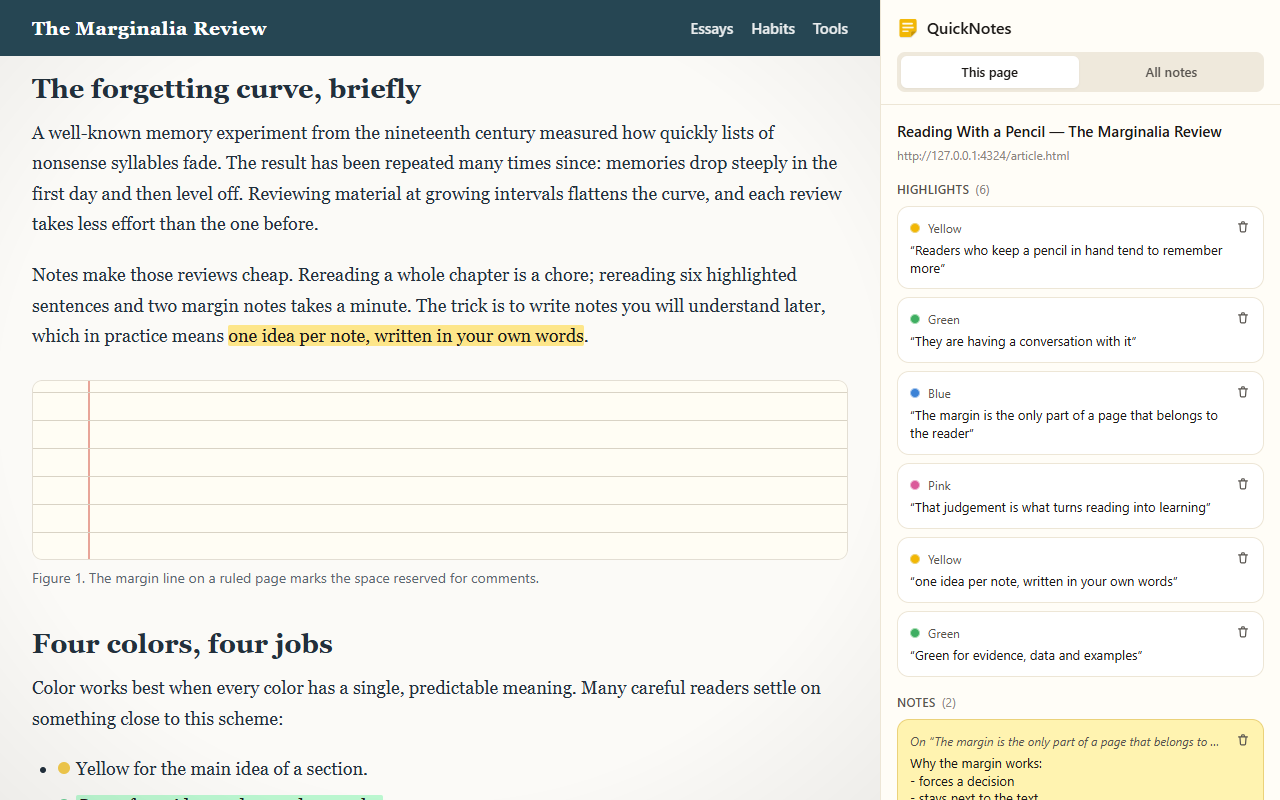
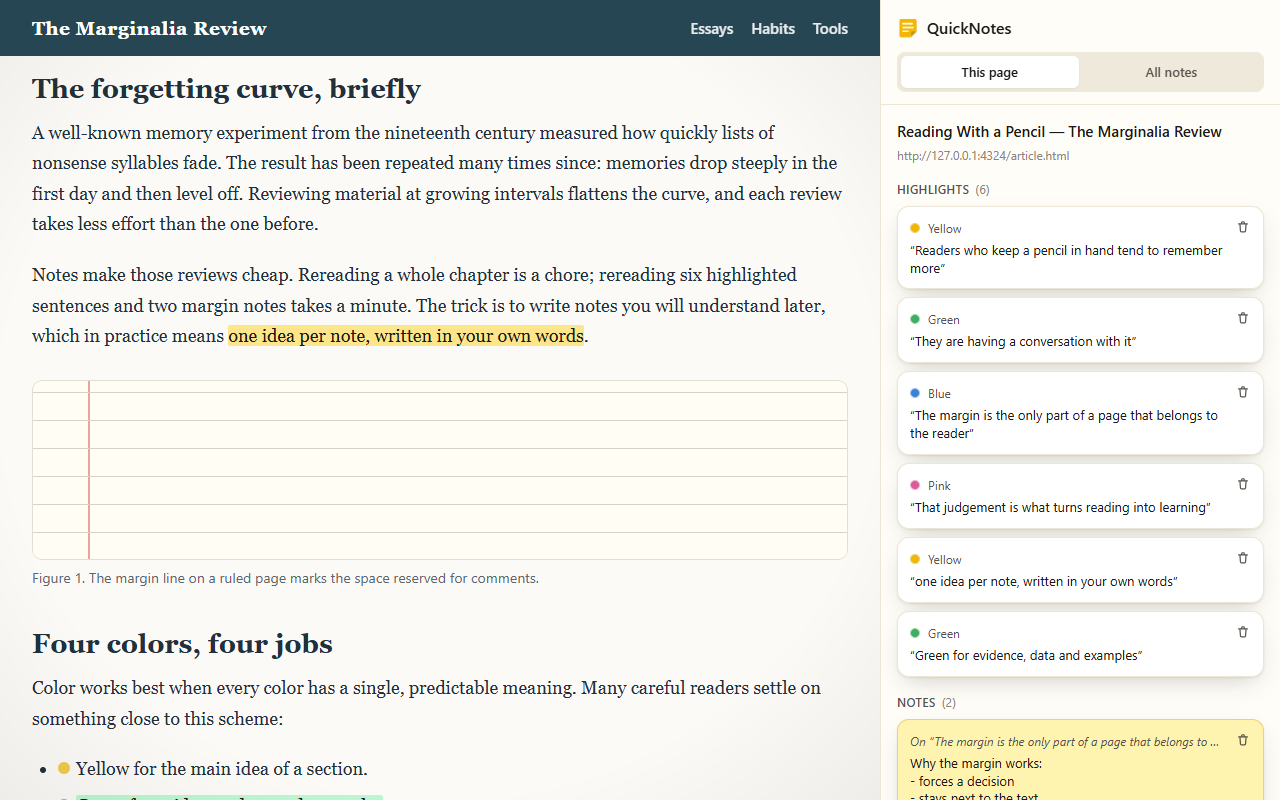
fix(ui): paper shadows were overridden by a near-white shadow color
`shadow-paper` matched two Tailwind utilities: the box-shadow from the
preset and a shadow-color from colors.paper (#FFFDF7), which came later and
replaced the soft dark shadow of cards, notes, toolbars and toasts with a
near-white one — invisible on light pages, a glow in the dark theme and on
dark sites. The shadows are now named `soft`/`soft-lg`; the isolation e2e
spec checks the note's computed shadow, and the store images are
recaptured.

diff --git a/src/content/toolbar.tsx b/src/content/toolbar.tsx
@@ -100,7 +100,7 @@ export function SelectionToolbar({ position, defaultColor, onHighlight, onAddNot
       role="toolbar"
       aria-label={t('toolbarLabel')}
       data-qn="toolbar"
-      class="qn-pop absolute flex items-center gap-0.5 whitespace-nowrap rounded-full border border-paper-line bg-paper py-1 pl-1.5 pr-1 shadow-paper-lg"
+      class="qn-pop absolute flex items-center gap-0.5 whitespace-nowrap rounded-full border border-paper-line bg-paper py-1 pl-1.5 pr-1 shadow-soft-lg"
       style={positionStyle(position)}
       onMouseDown={keepSelection}
     >
@@ -149,7 +149,7 @@ export function HighlightMenu({ position, color, hasNote, onColor, onNote, onDel
       role="toolbar"
       aria-label={t('menuLabel')}
       data-qn="highlight-menu"
-      class="qn-pop absolute flex items-center gap-0.5 whitespace-nowrap rounded-full border border-paper-line bg-paper py-1 pl-1.5 pr-1 shadow-paper-lg"
+      class="qn-pop absolute flex items-center gap-0.5 whitespace-nowrap rounded-full border border-paper-line bg-paper py-1 pl-1.5 pr-1 shadow-soft-lg"
       style={positionStyle(position)}
     >
       {COLORS.map((option) => (

diff --git a/src/content/stickyNote.tsx b/src/content/stickyNote.tsx
@@ -396,7 +396,7 @@ export function StickyNoteView(props: StickyNoteViewProps) {
         aria-label={t('noteLabel')}
         data-qn="note"
         data-qn-note-id={note.id}
-        class={`absolute flex h-[34px] max-w-[240px] touch-none select-none items-center gap-1 rounded-full border pl-3 pr-1 shadow-paper ${flash ? 'qn-flash' : ''}`}
+        class={`absolute flex h-[34px] max-w-[240px] touch-none select-none items-center gap-1 rounded-full border pl-3 pr-1 shadow-soft ${flash ? 'qn-flash' : ''}`}
         style={containerStyle}
         {...gestureHandlers('move')}
       >
@@ -423,7 +423,7 @@ export function StickyNoteView(props: StickyNoteViewProps) {
       aria-label={t('noteLabel')}
       data-qn="note"
       data-qn-note-id={note.id}
-      class={`absolute flex flex-col overflow-hidden rounded-[10px] border shadow-paper ${flash ? 'qn-flash' : ''}`}
+      class={`absolute flex flex-col overflow-hidden rounded-[10px] border shadow-soft ${flash ? 'qn-flash' : ''}`}
       style={{ ...containerStyle, width: `${size.width}px`, height: `${size.height}px` }}
       onPointerDown={() => onActivate(note.id)}
     >

diff --git a/e2e/isolation.spec.ts b/e2e/isolation.spec.ts
@@ -88,6 +88,7 @@ test('page CSS does not reach the injected UI, and the UI CSS does not reach the
       noteBorderStyle: b.borderTopStyle,
       noteBoxSizing: b.boxSizing,
       noteBackground: b.backgroundColor,
+      noteShadow: b.boxShadow,
       editorDisplay: e.display,
       editorBackground: e.backgroundColor,
       editorColor: e.color,
@@ -105,6 +106,8 @@ test('page CSS does not reach the injected UI, and the UI CSS does not reach the
     noteBorderStyle: 'solid',
     noteBoxSizing: 'border-box',
     noteBackground: 'rgb(255, 243, 176)',
+    // The soft dark "paper" shadow (a near-white one would be invisible on light pages).
+    noteShadow: expect.stringContaining('rgba(28, 25, 23, 0.22)') as unknown as string,
     editorDisplay: 'block',
     editorBackground: 'rgba(0, 0, 0, 0)',
     editorColor: INK,

diff --git a/tailwind.preset.js b/tailwind.preset.js
@@ -39,9 +39,12 @@ export default {
           '"Segoe UI Emoji"',
         ],
       },
+      // Named "soft", not "paper": `shadow-paper` would also be generated as a
+      // shadow-*color* utility from colors.paper and override the shadow itself
+      // with a near-white one.
       boxShadow: {
-        paper: '0 1px 2px rgba(28, 25, 23, 0.08), 0 10px 24px -8px rgba(28, 25, 23, 0.22)',
-        'paper-lg': '0 2px 4px rgba(28, 25, 23, 0.10), 0 18px 40px -12px rgba(28, 25, 23, 0.30)',
+        soft: '0 1px 2px rgba(28, 25, 23, 0.08), 0 10px 24px -8px rgba(28, 25, 23, 0.22)',
+        'soft-lg': '0 2px 4px rgba(28, 25, 23, 0.10), 0 18px 40px -12px rgba(28, 25, 23, 0.30)',
       },
       zIndex: {
         top: '2147483647',

diff --git a/src/content/app.tsx b/src/content/app.tsx
@@ -105,7 +105,7 @@ export function ContentApp({ state, actions }: { state: UiState; actions: UiActi
               <div
                 key={toast.id}
                 data-qn="toast"
-                class="qn-pop flex items-start gap-2 rounded-lg border border-paper-line bg-paper py-2.5 pl-3.5 pr-1.5 text-[13px] text-ink shadow-paper-lg"
+                class="qn-pop flex items-start gap-2 rounded-lg border border-paper-line bg-paper py-2.5 pl-3.5 pr-1.5 text-[13px] text-ink shadow-soft-lg"
               >
                 <span class="mt-1 h-2 w-2 shrink-0 rounded-full bg-primary" aria-hidden="true" />
                 <span class="flex-1">{toast.message}</span>

diff --git a/src/sidepanel/components.tsx b/src/sidepanel/components.tsx
@@ -64,7 +64,7 @@ export function ItemRow({
     );
 
   // Notes keep their paper color in the dark theme too, so their text stays dark.
-  const cardClass = item.kind === 'highlight' ? 'qn-card' : 'rounded-xl border shadow-paper';
+  const cardClass = item.kind === 'highlight' ? 'qn-card' : 'rounded-xl border shadow-soft';
   const cardStyle =
     item.kind === 'note'
       ? { backgroundColor: PALETTE[item.color].note, borderColor: PALETTE[item.color].edge, color: '#1C1917' }

diff --git a/src/styles/ui.css b/src/styles/ui.css
@@ -39,6 +39,6 @@
   }
 
   .qn-card {
-    @apply rounded-xl border border-paper-line bg-white shadow-paper dark:border-[#3a352f] dark:bg-[#2a2622];
+    @apply rounded-xl border border-paper-line bg-white shadow-soft dark:border-[#3a352f] dark:bg-[#2a2622];
   }
 }
